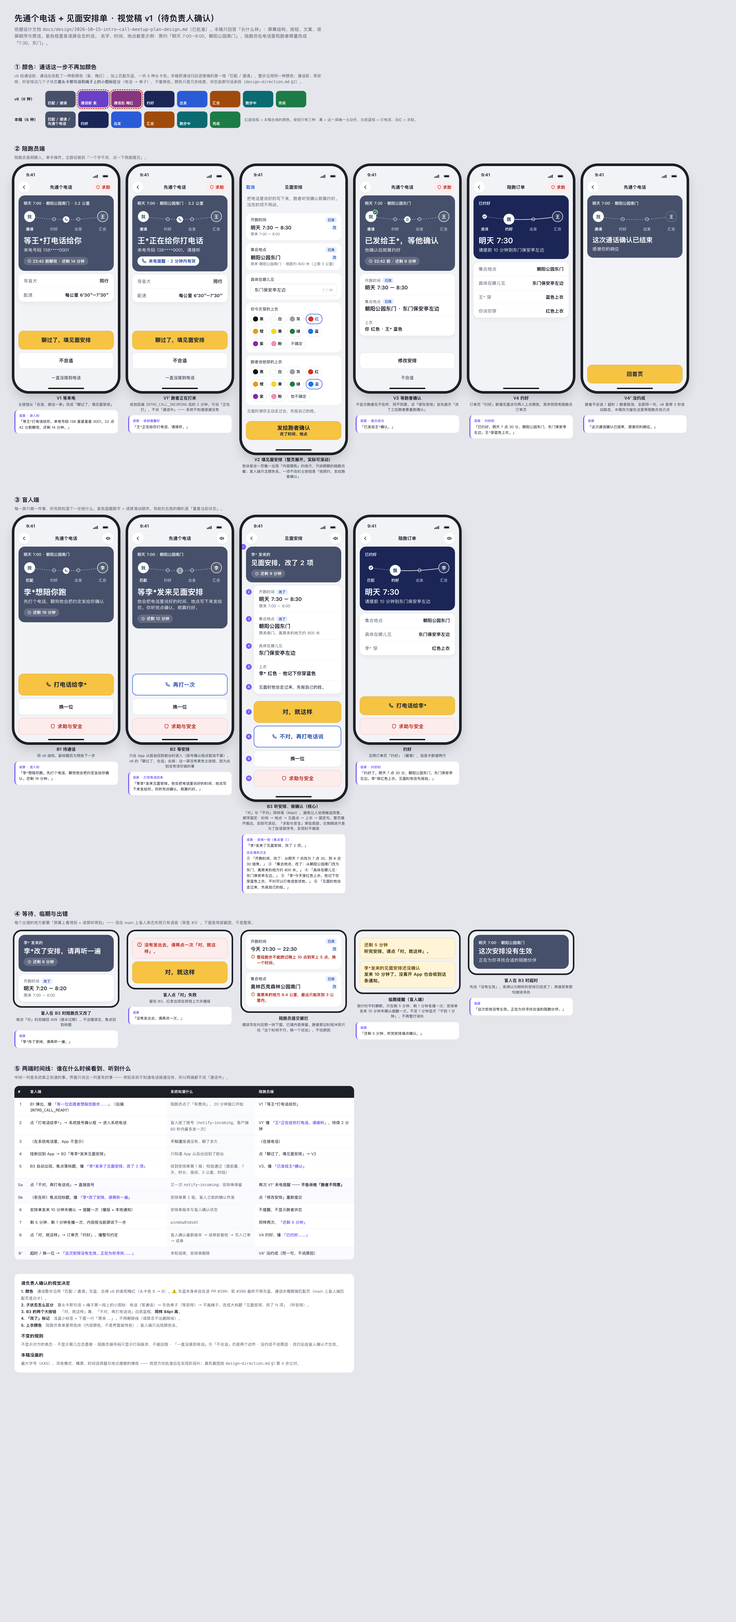
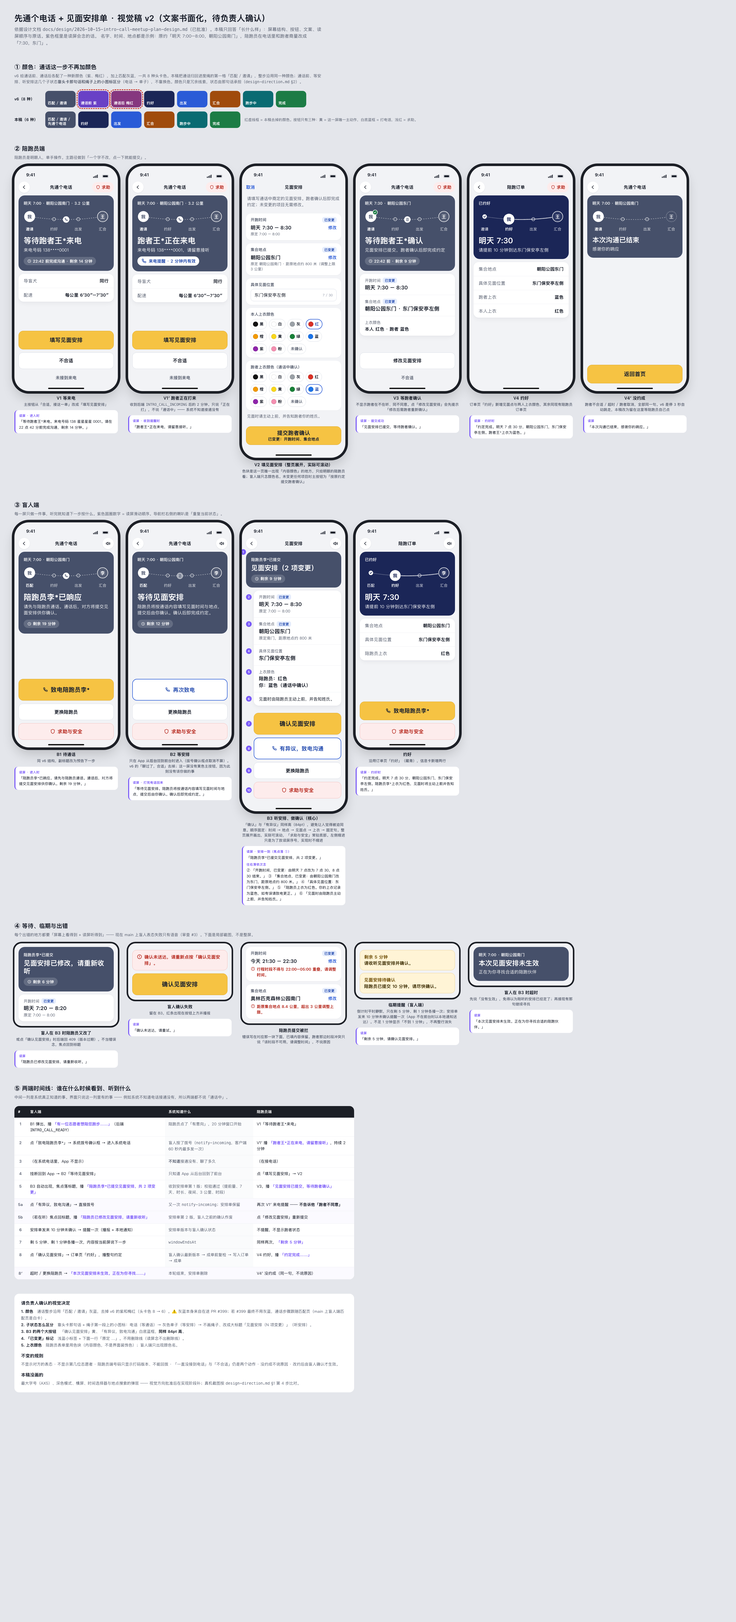
docs: 视觉稿 v2——界面文案改为书面表述，修三处标题折行

Changed region(s): [[0.0, 0.1556, 0.778, 0.8711], [0.4979, 0.1244, 0.5913, 0.1556], [0.0311, 0.2489, 0.0622, 0.28]]

diff --git a/docs/ui/mockups/intro-call-meetup-plan-20261015/index.html b/docs/ui/mockups/intro-call-meetup-plan-20261015/index.html
@@ -136,7 +136,7 @@ table.tl{border-collapse:separate;border-spacing:0;background:#fff;border-radius
 <template id="sb"><div class="sb"><span>9:41</span><svg viewBox="0 0 64 13"><rect x="0" y="8" width="3" height="5" rx="1" fill="#151A26"/><rect x="5" y="5.5" width="3" height="7.5" rx="1" fill="#151A26"/><rect x="10" y="3" width="3" height="10" rx="1" fill="#151A26"/><rect x="15" y="0.5" width="3" height="12.5" rx="1" fill="#151A26"/><rect x="36" y="1" width="23" height="11" rx="3.5" fill="none" stroke="#151A26" stroke-opacity=".4"/><rect x="38" y="3" width="19" height="7" rx="2" fill="#151A26"/></svg></div></template>
 
 <header>
- <h1>先通个电话 + 见面安排单 · 视觉稿 v1（待负责人确认）</h1>
+ <h1>先通个电话 + 见面安排单 · 视觉稿 v2（文案书面化，待负责人确认）</h1>
  <p class="lede">依据设计文档 <code>docs/design/2026-10-15-intro-call-meetup-plan-design.md</code>（已批准）。本稿只回答「长什么样」：屏幕结构、按钮、文案、读屏顺序与原话。紫色框里是读屏会念的话。
  名字、时间、地点都是示例：原约「明天 7:00–8:00，朝阳公园南门」，陪跑员在电话里和跑者商量改成「7:30，东门」。</p>
 </header>
@@ -160,67 +160,67 @@ table.tl{border-collapse:separate;border-spacing:0;background:#fff;border-radius
 <div class="nav"><div class="circ"><svg class="i"><use href="#back"/></svg></div><div class="t">先通个电话</div><div class="pill-help"><svg class="i"><use href="#shield"/></svg>求助</div></div>
 <div class="hero" style="background:var(--matching)"><div class="eyebrow">明天 7:00 · 朝阳公园南门 · 3.2 公里</div>
  <svg class="rope" data-rope='{"icon":"phone","other":"王","labels":["邀请","约好","出发","汇合"]}'></svg>
- <div class="say">等王*打电话给你</div><div class="say-sub">来电号码 138****0001</div>
- <div class="timer"><svg class="i"><use href="#clock"/></svg>22:42 前聊完 · 还剩 14 分钟</div></div>
+ <div class="say">等待跑者王*来电</div><div class="say-sub">来电号码 138****0001</div>
+ <div class="timer"><svg class="i"><use href="#clock"/></svg>22:42 前完成沟通 · 剩余 14 分钟</div></div>
 <div class="card"><div class="kv"><span>导盲犬</span><span>同行</span></div><div class="kv"><span>配速</span><span>每公里 6′30″–7′30″</span></div></div>
-<div class="bottom"><div class="cta">聊过了，填见面安排</div><div class="ghost">不合适</div><div class="textbtn">一直没接到电话</div></div><div class="hi"></div></div>
-<div class="cap">V1 等来电<small>主按钮从「合适，接这一单」改成「聊过了，填见面安排」</small></div>
-<div class="speak"><b>读屏 · 进入时</b><q>等王*打电话给你。来电号码 138 星星星星 0001。22 点 42 分前聊完，还剩 14 分钟。</q></div></div>
+<div class="bottom"><div class="cta">填写见面安排</div><div class="ghost">不合适</div><div class="textbtn">未接到来电</div></div><div class="hi"></div></div>
+<div class="cap">V1 等来电<small>主按钮从「合适，接这一单」改成「填写见面安排」</small></div>
+<div class="speak"><b>读屏 · 进入时</b><q>等待跑者王*来电。来电号码 138 星星星星 0001。请在 22 点 42 分前完成沟通，剩余 14 分钟。</q></div></div>
 
 <div class="col"><div class="phone" data-sb>
 <div class="nav"><div class="circ"><svg class="i"><use href="#back"/></svg></div><div class="t">先通个电话</div><div class="pill-help"><svg class="i"><use href="#shield"/></svg>求助</div></div>
 <div class="hero" style="background:var(--matching)"><div class="eyebrow">明天 7:00 · 朝阳公园南门 · 3.2 公里</div>
  <svg class="rope" data-rope='{"icon":"phone","other":"王","labels":["邀请","约好","出发","汇合"]}'></svg>
- <div class="say">王*正在给你打电话</div><div class="say-sub">来电号码 138****0001，请接听</div>
+ <div class="say">跑者王*正在来电</div><div class="say-sub">来电号码 138****0001，请留意接听</div>
  <div class="incoming"><svg class="i"><use href="#phone"/></svg>来电提醒 · 2 分钟内有效</div></div>
 <div class="card"><div class="kv"><span>导盲犬</span><span>同行</span></div><div class="kv"><span>配速</span><span>每公里 6′30″–7′30″</span></div></div>
-<div class="bottom"><div class="cta">聊过了，填见面安排</div><div class="ghost">不合适</div><div class="textbtn">一直没接到电话</div></div><div class="hi"></div></div>
+<div class="bottom"><div class="cta">填写见面安排</div><div class="ghost">不合适</div><div class="textbtn">未接到来电</div></div><div class="hi"></div></div>
 <div class="cap">V1′ 跑者正在打来<small>收到后端 <code>INTRO_CALL_INCOMING</code> 后的 2 分钟。只说「正在打」，不说「通话中」—— 系统不知道接通没有</small></div>
-<div class="speak"><b>读屏 · 收到提醒时</b><q>王*正在给你打电话，请接听。</q></div></div>
+<div class="speak"><b>读屏 · 收到提醒时</b><q>跑者王*正在来电，请留意接听。</q></div></div>
 
 <div class="col"><div class="phone tall" data-sb>
 <div class="nav"><div class="navtxt">取消</div><div class="t">见面安排</div><div style="width:44px"></div></div>
-<div class="sheetHead">把电话里说好的写下来，跑者听完确认就算约好。没改的项不用动。</div>
-<div class="sec"><h4>开跑时间<span class="tag">已改</span></h4><div class="now"><span>明天 7:30 – 8:30</span><span class="chg">改</span></div><div class="was">原来 7:00 – 8:00</div></div>
-<div class="sec"><h4>集合地点<span class="tag">已改</span></h4><div class="now"><span>朝阳公园东门</span><span class="chg">改</span></div><div class="was">原来 朝阳公园南门 · 相距约 800 米（上限 3 公里）</div></div>
-<div class="sec"><h4>具体在哪儿见</h4><div class="input"><span>东门保安亭左边</span><span class="cnt">7 / 30</span></div></div>
-<div class="sec"><h4>你今天穿的上衣</h4><div class="chips">
- <div class="chip"><i style="background:#111"></i>黑</div><div class="chip"><i style="background:#fff"></i>白</div><div class="chip"><i style="background:#9AA0A6"></i>灰</div><div class="chip on"><i style="background:#D93025"></i>红</div><div class="chip"><i style="background:#F29900"></i>橙</div><div class="chip"><i style="background:#F9D71C"></i>黄</div><div class="chip"><i style="background:#188038"></i>绿</div><div class="chip"><i style="background:#1A73E8"></i>蓝</div><div class="chip"><i style="background:#8E24AA"></i>紫</div><div class="chip"><i style="background:#F48FB1"></i>粉</div><div class="chip unk">不确定</div></div></div>
-<div class="sec"><h4>跑者说他穿的上衣</h4><div class="chips">
- <div class="chip"><i style="background:#111"></i>黑</div><div class="chip"><i style="background:#fff"></i>白</div><div class="chip"><i style="background:#9AA0A6"></i>灰</div><div class="chip"><i style="background:#D93025"></i>红</div><div class="chip"><i style="background:#F29900"></i>橙</div><div class="chip"><i style="background:#F9D71C"></i>黄</div><div class="chip"><i style="background:#188038"></i>绿</div><div class="chip on"><i style="background:#1A73E8"></i>蓝</div><div class="chip"><i style="background:#8E24AA"></i>紫</div><div class="chip"><i style="background:#F48FB1"></i>粉</div><div class="chip unk">他不确定</div></div></div>
-<div class="remind">见面时请你主动走过去，先报自己的姓。</div>
-<div class="bottom"><div class="cta stack">发给跑者确认<small>改了时间、地点</small></div></div><div class="hi"></div></div>
-<div class="cap">V2 填见面安排（整页展开，实际可滚动）<small>色块是这一页唯一出现「内容颜色」的地方，只给明眼的陪跑员看；盲人端只念颜色名。一项不改时主按钮是「按原约，发给跑者确认」</small></div></div>
+<div class="sheetHead">请填写通话中商定的见面安排。跑者确认后即完成约定；未变更的项目无需修改。</div>
+<div class="sec"><h4>开跑时间<span class="tag">已变更</span></h4><div class="now"><span>明天 7:30 – 8:30</span><span class="chg">修改</span></div><div class="was">原定 7:00 – 8:00</div></div>
+<div class="sec"><h4>集合地点<span class="tag">已变更</span></h4><div class="now"><span>朝阳公园东门</span><span class="chg">修改</span></div><div class="was">原定 朝阳公园南门 · 距原地点约 800 米（调整上限 3 公里）</div></div>
+<div class="sec"><h4>具体见面位置</h4><div class="input"><span>东门保安亭左侧</span><span class="cnt">7 / 30</span></div></div>
+<div class="sec"><h4>本人上衣颜色</h4><div class="chips">
+ <div class="chip"><i style="background:#111"></i>黑</div><div class="chip"><i style="background:#fff"></i>白</div><div class="chip"><i style="background:#9AA0A6"></i>灰</div><div class="chip on"><i style="background:#D93025"></i>红</div><div class="chip"><i style="background:#F29900"></i>橙</div><div class="chip"><i style="background:#F9D71C"></i>黄</div><div class="chip"><i style="background:#188038"></i>绿</div><div class="chip"><i style="background:#1A73E8"></i>蓝</div><div class="chip"><i style="background:#8E24AA"></i>紫</div><div class="chip"><i style="background:#F48FB1"></i>粉</div><div class="chip unk">未确认</div></div></div>
+<div class="sec"><h4>跑者上衣颜色（通话中确认）</h4><div class="chips">
+ <div class="chip"><i style="background:#111"></i>黑</div><div class="chip"><i style="background:#fff"></i>白</div><div class="chip"><i style="background:#9AA0A6"></i>灰</div><div class="chip"><i style="background:#D93025"></i>红</div><div class="chip"><i style="background:#F29900"></i>橙</div><div class="chip"><i style="background:#F9D71C"></i>黄</div><div class="chip"><i style="background:#188038"></i>绿</div><div class="chip on"><i style="background:#1A73E8"></i>蓝</div><div class="chip"><i style="background:#8E24AA"></i>紫</div><div class="chip"><i style="background:#F48FB1"></i>粉</div><div class="chip unk">未确认</div></div></div>
+<div class="remind">见面时请主动上前，并告知跑者你的姓氏。</div>
+<div class="bottom"><div class="cta stack">提交跑者确认<small>已变更：开跑时间、集合地点</small></div></div><div class="hi"></div></div>
+<div class="cap">V2 填见面安排（整页展开，实际可滚动）<small>色块是这一页唯一出现「内容颜色」的地方，只给明眼的陪跑员看；盲人端只念颜色名。未变更任何项目时主按钮为「按原约定提交跑者确认」</small></div></div>
 
 <div class="col"><div class="phone" data-sb>
 <div class="nav"><div class="circ"><svg class="i"><use href="#back"/></svg></div><div class="t">先通个电话</div><div class="pill-help"><svg class="i"><use href="#shield"/></svg>求助</div></div>
 <div class="hero" style="background:var(--matching)"><div class="eyebrow">明天 7:30 · 朝阳公园东门</div>
  <svg class="rope" data-rope='{"icon":"doc","other":"王","meCheck":true,"labels":["邀请","约好","出发","汇合"]}'></svg>
- <div class="say">已发给王*，等他确认</div><div class="say-sub">他确认后就算约好</div>
- <div class="timer"><svg class="i"><use href="#clock"/></svg>22:42 前 · 还剩 9 分钟</div></div>
-<div class="card plan"><div class="item"><div class="lbl">开跑时间 <span class="tag">已改</span></div><div class="val">明天 7:30 – 8:30</div></div><div class="item"><div class="lbl">集合地点 <span class="tag">已改</span></div><div class="val">朝阳公园东门 · 东门保安亭左边</div></div><div class="item"><div class="lbl">上衣</div><div class="val" style="font-size:17px">你 红色 · 王* 蓝色</div></div></div>
-<div class="bottom"><div class="ghost">修改安排</div><div class="textbtn">不合适</div></div><div class="hi"></div></div>
-<div class="cap">V3 等跑者确认<small>不显示跑者在不在听、同不同意。点「修改安排」会先提示「改了之后跑者要重新确认」</small></div>
-<div class="speak"><b>读屏 · 提交成功</b><q>已发给王*确认。</q></div></div>
+ <div class="say">等待跑者王*确认</div><div class="say-sub">见面安排已提交，跑者确认后即完成约定</div>
+ <div class="timer"><svg class="i"><use href="#clock"/></svg>22:42 前 · 剩余 9 分钟</div></div>
+<div class="card plan"><div class="item"><div class="lbl">开跑时间 <span class="tag">已变更</span></div><div class="val">明天 7:30 – 8:30</div></div><div class="item"><div class="lbl">集合地点 <span class="tag">已变更</span></div><div class="val">朝阳公园东门 · 东门保安亭左侧</div></div><div class="item"><div class="lbl">上衣颜色</div><div class="val" style="font-size:17px">本人 红色 · 跑者 蓝色</div></div></div>
+<div class="bottom"><div class="ghost">修改见面安排</div><div class="textbtn">不合适</div></div><div class="hi"></div></div>
+<div class="cap">V3 等跑者确认<small>不显示跑者在不在听、同不同意。点「修改见面安排」会先提示「修改后需跑者重新确认」</small></div>
+<div class="speak"><b>读屏 · 提交成功</b><q>见面安排已提交，等待跑者确认。</q></div></div>
 
 <div class="col"><div class="phone" data-sb>
 <div class="nav"><div class="circ"><svg class="i"><use href="#back"/></svg></div><div class="t">陪跑订单</div><div class="pill-help"><svg class="i"><use href="#shield"/></svg>求助</div></div>
 <div class="hero" style="background:var(--navy)"><div class="eyebrow">已约好</div>
  <svg class="rope" data-rope='{"cur":1,"other":"王","agreed":true,"labels":["邀请","约好","出发","汇合"]}'></svg>
- <div class="say">明天 7:30</div><div class="say-sub">请提前 10 分钟到东门保安亭左边</div></div>
-<div class="card"><div class="kv"><span>集合地点</span><span>朝阳公园东门</span></div><div class="kv"><span>具体在哪儿见</span><span>东门保安亭左边</span></div><div class="kv"><span>王* 穿</span><span>蓝色上衣</span></div><div class="kv"><span>你说你穿</span><span>红色上衣</span></div></div>
+ <div class="say">明天 7:30</div><div class="say-sub">请提前 10 分钟到达东门保安亭左侧</div></div>
+<div class="card"><div class="kv"><span>集合地点</span><span>朝阳公园东门</span></div><div class="kv"><span>具体见面位置</span><span>东门保安亭左侧</span></div><div class="kv"><span>跑者上衣</span><span>蓝色</span></div><div class="kv"><span>本人上衣</span><span>红色</span></div></div>
 <div class="bottom"></div><div class="hi"></div></div>
 <div class="cap">V4 约好<small>订单页「约好」新增见面点与两人上衣颜色，其余同现有陪跑员订单页</small></div>
-<div class="speak"><b>读屏 · 约好时</b><q>已约好。明天 7 点 30 分，朝阳公园东门，东门保安亭左边。王*穿蓝色上衣。</q></div></div>
+<div class="speak"><b>读屏 · 约好时</b><q>约定完成。明天 7 点 30 分，朝阳公园东门，东门保安亭左侧。跑者王*上衣为蓝色。</q></div></div>
 
 <div class="col"><div class="phone" data-sb>
 <div class="nav"><div class="circ"><svg class="i"><use href="#back"/></svg></div><div class="t">先通个电话</div><div style="width:44px"></div></div>
 <div class="hero" style="background:var(--matching)"><div class="eyebrow">明天 7:00 · 朝阳公园南门</div>
  <svg class="rope" data-rope='{"other":"王","otherState":"none","labels":["邀请","约好","出发","汇合"]}'></svg>
- <div class="say m">这次通话确认已结束</div><div class="say-sub">感谢你的响应</div></div>
-<div class="bottom"><div class="cta">回首页</div></div><div class="hi"></div></div>
+ <div class="say m">本次沟通已结束</div><div class="say-sub">感谢你的响应</div></div>
+<div class="bottom"><div class="cta">返回首页</div></div><div class="hi"></div></div>
 <div class="cap">V4′ 没约成<small>跑者不合适 / 超时 / 跑者取消，全部同一句。v6 是停 3 秒自动跳走，本稿改为留在这里等陪跑员自己点</small></div>
-<div class="speak"><b>读屏</b><q>这次通话确认已结束，感谢你的响应。</q></div></div>
+<div class="speak"><b>读屏</b><q>本次沟通已结束，感谢你的响应。</q></div></div>
 </div>
 
 <!-- ================= 盲人端 ================= -->
@@ -232,48 +232,48 @@ table.tl{border-collapse:separate;border-spacing:0;background:#fff;border-radius
 <div class="nav"><div class="circ"><svg class="i"><use href="#back"/></svg></div><div class="t">先通个电话</div><div class="circ"><svg class="i"><use href="#speaker"/></svg></div></div>
 <div class="hero" style="background:var(--matching)"><div class="eyebrow">明天 7:00 · 朝阳公园南门</div>
  <svg class="rope" data-rope='{"icon":"phone","other":"李"}'></svg>
- <div class="say">李*想陪你跑</div><div class="say-sub">先打个电话，聊完他会把约定发给你确认</div>
- <div class="timer"><svg class="i"><use href="#clock"/></svg>还剩 19 分钟</div></div>
-<div class="bottom"><div class="cta big"><svg class="i"><use href="#phone"/></svg>打电话给李*</div><div class="ghost">换一位</div><div class="help"><svg class="i"><use href="#shield"/></svg>求助与安全</div></div><div class="hi"></div></div>
+ <div class="say">陪跑员李*已响应</div><div class="say-sub">请先与陪跑员通话。通话后，对方将提交见面安排供你确认。</div>
+ <div class="timer"><svg class="i"><use href="#clock"/></svg>剩余 19 分钟</div></div>
+<div class="bottom"><div class="cta big"><svg class="i"><use href="#phone"/></svg>致电陪跑员李*</div><div class="ghost">更换陪跑员</div><div class="help"><svg class="i"><use href="#shield"/></svg>求助与安全</div></div><div class="hi"></div></div>
 <div class="cap">B1 待通话<small>同 v6 结构，副标题改为预告下一步</small></div>
-<div class="speak"><b>读屏 · 进入时</b><q>李*想陪你跑。先打个电话，聊完他会把约定发给你确认。还剩 19 分钟。</q></div></div>
+<div class="speak"><b>读屏 · 进入时</b><q>陪跑员李*已响应。请先与陪跑员通话。通话后，对方将提交见面安排供你确认。剩余 19 分钟。</q></div></div>
 
 <div class="col"><div class="phone" data-sb>
 <div class="nav"><div class="circ"><svg class="i"><use href="#back"/></svg></div><div class="t">先通个电话</div><div class="circ"><svg class="i"><use href="#speaker"/></svg></div></div>
 <div class="hero" style="background:var(--matching)"><div class="eyebrow">明天 7:00 · 朝阳公园南门</div>
  <svg class="rope" data-rope='{"icon":"doc","iconDim":true,"other":"李"}'></svg>
- <div class="say">等李*发来见面安排</div><div class="say-sub">他会把电话里说好的时间、地点写下来发给你。你听完点确认，就算约好。</div>
- <div class="timer"><svg class="i"><use href="#clock"/></svg>还剩 12 分钟</div></div>
-<div class="bottom"><div class="call"><svg class="i"><use href="#phone"/></svg>再打一次</div><div class="ghost">换一位</div><div class="help"><svg class="i"><use href="#shield"/></svg>求助与安全</div></div><div class="hi"></div></div>
+ <div class="say">等待见面安排</div><div class="say-sub">陪跑员将按通话内容填写见面时间与地点，提交后由你确认。确认后即完成约定。</div>
+ <div class="timer"><svg class="i"><use href="#clock"/></svg>剩余 12 分钟</div></div>
+<div class="bottom"><div class="call"><svg class="i"><use href="#phone"/></svg>再次致电</div><div class="ghost">更换陪跑员</div><div class="help"><svg class="i"><use href="#shield"/></svg>求助与安全</div></div><div class="hi"></div></div>
 <div class="cap">B2 等安排<small>只在 App 从<b>后台</b>回到前台时进入（拨号确认框点取消不算）。v6 的「聊过了，合适」去掉；这一屏没有黄色主按钮，因为此刻没有该你做的事</small></div>
-<div class="speak"><b>读屏 · 打完电话回来</b><q>等李*发来见面安排。他会把电话里说好的时间、地点写下来发给你。你听完点确认，就算约好。</q></div></div>
+<div class="speak"><b>读屏 · 打完电话回来</b><q>等待见面安排。陪跑员将按通话内容填写见面时间与地点，提交后由你确认。确认后即完成约定。</q></div></div>
 
 <div class="col"><div class="phone tall" data-sb>
 <div class="nav"><div class="circ"><svg class="i"><use href="#back"/></svg></div><div class="t">见面安排</div><div class="circ"><svg class="i"><use href="#speaker"/></svg></div></div>
-<div class="foWrap"><div class="hero" style="background:var(--matching);padding-bottom:18px"><span class="fo">1</span><div class="eyebrow">李* 发来的</div>
- <div class="say m" style="margin-top:6px">见面安排，改了 2 项</div>
- <div class="timer" style="margin-top:10px"><svg class="i"><use href="#clock"/></svg>还剩 9 分钟</div></div></div>
+<div class="foWrap"><div class="hero" style="background:var(--matching);padding-bottom:18px"><span class="fo">1</span><div class="eyebrow">陪跑员李*已提交</div>
+ <div class="say m" style="margin-top:6px">见面安排（2 项变更）</div>
+ <div class="timer" style="margin-top:10px"><svg class="i"><use href="#clock"/></svg>剩余 9 分钟</div></div></div>
 <div class="card plan" style="margin-left:46px">
- <div class="item"><span class="fo">2</span><div class="lbl">开跑时间 <span class="tag">改了</span></div><div class="val">明天 7:30 – 8:30</div><div class="old">原来 7:00 – 8:00</div></div>
- <div class="item"><span class="fo">3</span><div class="lbl">集合地点 <span class="tag">改了</span></div><div class="val">朝阳公园东门</div><div class="old">原来南门，离原来的地方约 800 米</div></div>
- <div class="item"><span class="fo">4</span><div class="lbl">具体在哪儿见</div><div class="val">东门保安亭左边</div></div>
- <div class="item"><span class="fo">5</span><div class="lbl">上衣</div><div class="val" style="font-size:18px">李* 红色 · 他记下你穿蓝色</div></div>
- <div class="item"><span class="fo">6</span><div class="fixed">见面时他会走过来，先报自己的姓。</div></div>
+ <div class="item"><span class="fo">2</span><div class="lbl">开跑时间 <span class="tag">已变更</span></div><div class="val">明天 7:30 – 8:30</div><div class="old">原定 7:00 – 8:00</div></div>
+ <div class="item"><span class="fo">3</span><div class="lbl">集合地点 <span class="tag">已变更</span></div><div class="val">朝阳公园东门</div><div class="old">原定南门，距原地点约 800 米</div></div>
+ <div class="item"><span class="fo">4</span><div class="lbl">具体见面位置</div><div class="val">东门保安亭左侧</div></div>
+ <div class="item"><span class="fo">5</span><div class="lbl">上衣颜色</div><div class="val" style="font-size:18px">陪跑员：红色</div><div class="val" style="font-size:18px;margin-top:2px">你：蓝色（通话中确认）</div></div>
+ <div class="item"><span class="fo">6</span><div class="fixed">见面时由陪跑员主动上前，并告知姓氏。</div></div>
 </div>
-<div class="bottom" style="padding-left:46px"><div class="foWrap"><span class="fo btn">7</span><div class="cta big">对，就这样</div></div><div class="foWrap"><span class="fo btn">8</span><div class="call"><svg class="i"><use href="#phone"/></svg>不对，再打电话说</div></div><div class="foWrap"><span class="fo btn">9</span><div class="ghost">换一位</div></div><div class="foWrap"><span class="fo btn">10</span><div class="help"><svg class="i"><use href="#shield"/></svg>求助与安全</div></div></div><div class="hi"></div></div>
-<div class="cap">B3 听安排、做确认（核心）<small>「对」与「不对」同样高（84pt），避免让人觉得被迫同意。顺序固定：时间 → 地点 → 见面点 → 上衣 → 固定句。整页展开画出，实际可滚动，「求助与安全」常驻底部。左侧缩进只是为了放读屏序号，实现时不缩进</small></div>
-<div class="speak"><b>读屏 · 安排一到（焦点落 ①）</b><q>李*发来了见面安排，改了 2 项。</q><br>
-<b style="margin-top:6px">往右滑依次念</b>② <q>开跑时间，改了：从明天 7 点改为 7 点 30，到 8 点 30 结束。</q> ③ <q>集合地点，改了：从朝阳公园南门改为东门，离原来的地方约 800 米。</q> ④ <q>具体在哪儿见：东门保安亭左边。</q> ⑤ <q>李*今天穿红色上衣。他记下你穿蓝色上衣，不对可以打电话告诉他。</q> ⑥ <q>见面时他会走过来，先报自己的姓。</q></div></div>
+<div class="bottom" style="padding-left:46px"><div class="foWrap"><span class="fo btn">7</span><div class="cta big">确认见面安排</div></div><div class="foWrap"><span class="fo btn">8</span><div class="call"><svg class="i"><use href="#phone"/></svg>有异议，致电沟通</div></div><div class="foWrap"><span class="fo btn">9</span><div class="ghost">更换陪跑员</div></div><div class="foWrap"><span class="fo btn">10</span><div class="help"><svg class="i"><use href="#shield"/></svg>求助与安全</div></div></div><div class="hi"></div></div>
+<div class="cap">B3 听安排、做确认（核心）<small>「确认」与「有异议」同样高（84pt），避免让人觉得被迫同意。顺序固定：时间 → 地点 → 见面点 → 上衣 → 固定句。整页展开画出，实际可滚动，「求助与安全」常驻底部。左侧缩进只是为了放读屏序号，实现时不缩进</small></div>
+<div class="speak"><b>读屏 · 安排一到（焦点落 ①）</b><q>陪跑员李*已提交见面安排，共 2 项变更。</q><br>
+<b style="margin-top:6px">往右滑依次念</b>② <q>开跑时间，已变更：由明天 7 点改为 7 点 30，8 点 30 结束。</q> ③ <q>集合地点，已变更：由朝阳公园南门改为东门，距原地点约 800 米。</q> ④ <q>具体见面位置：东门保安亭左侧。</q> ⑤ <q>陪跑员上衣为红色。你的上衣记录为蓝色，如有误请致电更正。</q> ⑥ <q>见面时由陪跑员主动上前，并告知姓氏。</q></div></div>
 
 <div class="col"><div class="phone" data-sb>
 <div class="nav"><div class="circ"><svg class="i"><use href="#back"/></svg></div><div class="t">陪跑订单</div><div class="circ"><svg class="i"><use href="#speaker"/></svg></div></div>
 <div class="hero" style="background:var(--navy)"><div class="eyebrow">已约好</div>
  <svg class="rope" data-rope='{"cur":1,"other":"李","agreed":true}'></svg>
- <div class="say">明天 7:30</div><div class="say-sub">请提前 10 分钟到东门保安亭左边</div></div>
-<div class="card"><div class="kv"><span>集合地点</span><span>朝阳公园东门</span></div><div class="kv"><span>具体在哪儿见</span><span>东门保安亭左边</span></div><div class="kv"><span>李* 穿</span><span>红色上衣</span></div></div>
-<div class="bottom"><div class="cta"><svg class="i"><use href="#phone"/></svg>打电话给李*</div><div class="help"><svg class="i"><use href="#shield"/></svg>求助与安全</div></div><div class="hi"></div></div>
+ <div class="say">明天 7:30</div><div class="say-sub">请提前 10 分钟到达东门保安亭左侧</div></div>
+<div class="card"><div class="kv"><span>集合地点</span><span>朝阳公园东门</span></div><div class="kv"><span>具体见面位置</span><span>东门保安亭左侧</span></div><div class="kv"><span>陪跑员上衣</span><span>红色</span></div></div>
+<div class="bottom"><div class="cta"><svg class="i"><use href="#phone"/></svg>致电陪跑员李*</div><div class="help"><svg class="i"><use href="#shield"/></svg>求助与安全</div></div><div class="hi"></div></div>
 <div class="cap">约好<small>沿用订单页「约好」（藏青），信息卡新增两行</small></div>
-<div class="speak"><b>读屏 · 约好时</b><q>约好了。明天 7 点 30 分，朝阳公园东门，东门保安亭左边。李*穿红色上衣，见面时他会先报姓。</q></div></div>
+<div class="speak"><b>读屏 · 约好时</b><q>约定完成。明天 7 点 30 分，朝阳公园东门，东门保安亭左侧。陪跑员李*上衣为红色，见面时将主动上前并告知姓氏。</q></div></div>
 </div>
 
 <!-- ================= 异常与临期 ================= -->
@@ -282,34 +282,34 @@ table.tl{border-collapse:separate;border-spacing:0;background:#fff;border-radius
 <div class="row">
 
 <div class="col"><div class="snip">
-<div class="hero" style="background:var(--matching);margin-top:0"><div class="eyebrow">李* 发来的</div><div class="say m" style="margin-top:6px">李*改了安排，请再听一遍</div><div class="timer" style="margin-top:10px"><svg class="i"><use href="#clock"/></svg>还剩 6 分钟</div></div>
-<div class="card plan"><div class="item"><div class="lbl">开跑时间 <span class="tag">改了</span></div><div class="val">明天 7:20 – 8:20</div><div class="old">原来 7:00 – 8:00</div></div></div></div>
-<div class="cap">盲人在 B3 时陪跑员又改了<small>或点「对」时后端回 409（版本过期）。不当错误念，焦点回到标题</small></div>
-<div class="speak"><b>读屏</b><q>李*改了安排，请再听一遍。</q></div></div>
+<div class="hero" style="background:var(--matching);margin-top:0"><div class="eyebrow">陪跑员李*已提交</div><div class="say m" style="margin-top:6px">见面安排已修改，请重新收听</div><div class="timer" style="margin-top:10px"><svg class="i"><use href="#clock"/></svg>剩余 6 分钟</div></div>
+<div class="card plan"><div class="item"><div class="lbl">开跑时间 <span class="tag">已变更</span></div><div class="val">明天 7:20 – 8:20</div><div class="old">原定 7:00 – 8:00</div></div></div></div>
+<div class="cap">盲人在 B3 时陪跑员又改了<small>或点「确认见面安排」时后端回 409（版本过期）。不当错误念，焦点回到标题</small></div>
+<div class="speak"><b>读屏</b><q>陪跑员已修改见面安排，请重新收听。</q></div></div>
 
 <div class="col"><div class="snip">
-<div class="banner"><div style="display:flex;gap:8px"><svg class="i"><use href="#alert"/></svg><span>没有发出去，请再点一次「对，就这样」。</span></div></div>
-<div class="bottom" style="padding-bottom:0"><div class="cta big">对，就这样</div></div></div>
-<div class="cap">盲人点「对」失败<small>留在 B3，红条出现在按钮上方并播报</small></div>
-<div class="speak"><b>读屏</b><q>没有发出去，请再点一次。</q></div></div>
+<div class="banner"><div style="display:flex;gap:8px"><svg class="i"><use href="#alert"/></svg><span>确认未送达，请重新点按「确认见面安排」。</span></div></div>
+<div class="bottom" style="padding-bottom:0"><div class="cta big">确认见面安排</div></div></div>
+<div class="cap">盲人确认失败<small>留在 B3，红条出现在按钮上方并播报</small></div>
+<div class="speak"><b>读屏</b><q>确认未送达，请重试。</q></div></div>
 
 <div class="col"><div class="snip">
-<div class="sec" style="margin-top:0"><h4>开跑时间<span class="tag">已改</span></h4><div class="now"><span>今天 21:30 – 22:30</span><span class="chg">改</span></div>
-<div class="err"><svg class="i" style="width:18px;height:18px"><use href="#alert"/></svg><span>整段跑步不能跨过晚上 10 点到早上 5 点，换一个时间。</span></div></div>
-<div class="sec"><h4>集合地点<span class="tag">已改</span></h4><div class="now"><span>奥林匹克森林公园南门</span><span class="chg">改</span></div>
-<div class="err"><svg class="i" style="width:18px;height:18px"><use href="#alert"/></svg><span>离原来的地方 8.4 公里，最远只能改到 3 公里内。</span></div></div></div>
-<div class="cap">陪跑员提交被拦<small>错误写在对应那一块下面，已填内容保留。跑者那边时段冲突只说「这个时间不行，换一个试试」，不说原因</small></div></div>
+<div class="sec" style="margin-top:0"><h4>开跑时间<span class="tag">已变更</span></h4><div class="now"><span>今天 21:30 – 22:30</span><span class="chg">修改</span></div>
+<div class="err"><svg class="i" style="width:18px;height:18px"><use href="#alert"/></svg><span>行程时段不得与 22:00–05:00 重叠，请调整时间。</span></div></div>
+<div class="sec"><h4>集合地点<span class="tag">已变更</span></h4><div class="now"><span>奥林匹克森林公园南门</span><span class="chg">修改</span></div>
+<div class="err"><svg class="i" style="width:18px;height:18px"><use href="#alert"/></svg><span>距原集合地点 8.4 公里，超出 3 公里调整上限。</span></div></div></div>
+<div class="cap">陪跑员提交被拦<small>错误写在对应那一块下面，已填内容保留。跑者那边时段冲突只说「该时段不可用，请调整时间」，不说原因</small></div></div>
 
 <div class="col"><div class="snip">
-<div class="banner warm"><b>还剩 5 分钟</b><br>听完安排，请点「对，就这样」。</div>
-<div class="banner warm" style="margin-top:10px"><b>李*发来的见面安排还没确认</b><br>发来 10 分钟了。没离开 App 也会收到这条通知。</div></div>
-<div class="cap">临期提醒（盲人端）<small>倒计时平时静默，只在剩 5 分钟、剩 1 分钟各播一次；安排单发来 10 分钟未确认提醒一次。不足 1 分钟显示「不到 1 分钟」，不再整行消失</small></div>
-<div class="speak"><b>读屏</b><q>还剩 5 分钟，听完安排请点确认。</q></div></div>
+<div class="banner warm"><b>剩余 5 分钟</b><br>请收听见面安排并确认。</div>
+<div class="banner warm" style="margin-top:10px"><b>见面安排待确认</b><br>陪跑员已提交 10 分钟，请尽快确认。</div></div>
+<div class="cap">临期提醒（盲人端）<small>倒计时平时静默，只在剩 5 分钟、剩 1 分钟各播一次；安排单发来 10 分钟未确认提醒一次（App 不在前台时以本地通知送达）。不足 1 分钟显示「不到 1 分钟」，不再整行消失</small></div>
+<div class="speak"><b>读屏</b><q>剩余 5 分钟，请确认见面安排。</q></div></div>
 
 <div class="col"><div class="snip">
-<div class="hero" style="background:var(--matching);margin-top:0"><div class="eyebrow">明天 7:00 · 朝阳公园南门</div><div class="say m" style="margin-top:6px">这次安排没有生效</div><div class="say-sub">正在为你寻找合适的陪跑伙伴</div></div></div>
+<div class="hero" style="background:var(--matching);margin-top:0"><div class="eyebrow">明天 7:00 · 朝阳公园南门</div><div class="say m" style="margin-top:6px">本次见面安排未生效</div><div class="say-sub">正在为你寻找合适的陪跑伙伴</div></div></div>
 <div class="cap">盲人在 B3 时超时<small>先说「没有生效」，免得以为刚听的安排已经定了；再接现有那句继续寻找</small></div>
-<div class="speak"><b>读屏</b><q>这次安排没有生效。正在为你寻找合适的陪跑伙伴。</q></div></div>
+<div class="speak"><b>读屏</b><q>本次见面安排未生效。正在为你寻找合适的陪跑伙伴。</q></div></div>
 </div>
 
 <!-- ================= 时间线 ================= -->
@@ -317,25 +317,25 @@ table.tl{border-collapse:separate;border-spacing:0;background:#fff;border-radius
 <p class="h2sub">中间一列是系统真正知道的事。界面只说这一列里有的事 —— 例如系统不知道电话接通没有，所以两端都不说「通话中」。</p>
 <table class="tl">
 <tr><th>#</th><th>盲人端</th><th>系统知道什么</th><th>陪跑员端</th></tr>
-<tr><td>1</td><td>B1 弹出，播 <span class="sayq">「有一位志愿者想陪您跑步……」</span>（后端 <code>INTRO_CALL_READY</code>）</td><td class="sys">陪跑员点了「有意向」，20 分钟窗口开始</td><td>V1「等王*打电话给你」</td></tr>
-<tr><td>2</td><td>点「打电话给李*」→ 系统拨号确认框 → 进入系统电话</td><td class="sys">盲人按了拨号（<code>notify-incoming</code>，客户端 60 秒内最多发一次）</td><td>V1′ 播 <span class="sayq">「王*正在给你打电话，请接听」</span>，持续 2 分钟</td></tr>
+<tr><td>1</td><td>B1 弹出，播 <span class="sayq">「有一位志愿者想陪您跑步……」</span>（后端 <code>INTRO_CALL_READY</code>）</td><td class="sys">陪跑员点了「有意向」，20 分钟窗口开始</td><td>V1「等待跑者王*来电」</td></tr>
+<tr><td>2</td><td>点「致电陪跑员李*」→ 系统拨号确认框 → 进入系统电话</td><td class="sys">盲人按了拨号（<code>notify-incoming</code>，客户端 60 秒内最多发一次）</td><td>V1′ 播 <span class="sayq">「跑者王*正在来电，请留意接听」</span>，持续 2 分钟</td></tr>
 <tr><td>3</td><td>（在系统电话里，App 不显示）</td><td class="sys"><b>不知道</b>接通没有、聊了多久</td><td>（在接电话）</td></tr>
-<tr><td>4</td><td>挂断回到 App → B2「等李*发来见面安排」</td><td class="sys">只知道 App 从后台回到了前台</td><td>点「聊过了，填见面安排」→ V2</td></tr>
-<tr><td>5</td><td>B3 自动出现，焦点落标题，播 <span class="sayq">「李*发来了见面安排，改了 2 项」</span></td><td class="sys">收到安排单第 1 版；校验通过（提前量、7 天、时长、夜间、3 公里、时段）</td><td>V3，播 <span class="sayq">「已发给王*确认」</span></td></tr>
-<tr class="branch"><td>5a</td><td>点「不对，再打电话说」→ 直接拨号</td><td class="sys">又一次 <code>notify-incoming</code>；安排单保留</td><td>再次 V1′ 来电提醒 —— <b>不告诉他「跑者不同意」</b></td></tr>
-<tr class="branch"><td>5b</td><td>（若在听）焦点回标题，播 <span class="sayq">「李*改了安排，请再听一遍」</span></td><td class="sys">安排单第 2 版，盲人之前的确认作废</td><td>点「修改安排」重新提交</td></tr>
+<tr><td>4</td><td>挂断回到 App → B2「等待见面安排」</td><td class="sys">只知道 App 从后台回到了前台</td><td>点「填写见面安排」→ V2</td></tr>
+<tr><td>5</td><td>B3 自动出现，焦点落标题，播 <span class="sayq">「陪跑员李*已提交见面安排，共 2 项变更」</span></td><td class="sys">收到安排单第 1 版；校验通过（提前量、7 天、时长、夜间、3 公里、时段）</td><td>V3，播 <span class="sayq">「见面安排已提交，等待跑者确认」</span></td></tr>
+<tr class="branch"><td>5a</td><td>点「有异议，致电沟通」→ 直接拨号</td><td class="sys">又一次 <code>notify-incoming</code>；安排单保留</td><td>再次 V1′ 来电提醒 —— <b>不告诉他「跑者不同意」</b></td></tr>
+<tr class="branch"><td>5b</td><td>（若在听）焦点回标题，播 <span class="sayq">「陪跑员已修改见面安排，请重新收听」</span></td><td class="sys">安排单第 2 版，盲人之前的确认作废</td><td>点「修改见面安排」重新提交</td></tr>
 <tr><td>6</td><td>安排单发来 10 分钟未确认 → 提醒一次（播报 + 本地通知）</td><td class="sys">安排单版本与盲人确认状态</td><td>不提醒，不显示跑者状态</td></tr>
-<tr><td>7</td><td>剩 5 分钟、剩 1 分钟各播一次，内容按当前屏说下一步</td><td class="sys"><code>windowEndsAt</code></td><td>同样两次，<span class="sayq">「还剩 5 分钟」</span></td></tr>
-<tr><td>8</td><td>点「对，就这样」→ 订单页「约好」，播整句约定</td><td class="sys">盲人确认最新版本 → 成单前复检 → 写入订单 → 成单</td><td>V4 约好，播 <span class="sayq">「已约好……」</span></td></tr>
-<tr class="branch"><td>8′</td><td>超时 / 换一位 → <span class="sayq">「这次安排没有生效。正在为你寻找……」</span></td><td class="sys">本轮结束，安排单删除</td><td>V4′ 没约成（同一句，不说原因）</td></tr>
+<tr><td>7</td><td>剩 5 分钟、剩 1 分钟各播一次，内容按当前屏说下一步</td><td class="sys"><code>windowEndsAt</code></td><td>同样两次，<span class="sayq">「剩余 5 分钟」</span></td></tr>
+<tr><td>8</td><td>点「确认见面安排」→ 订单页「约好」，播整句约定</td><td class="sys">盲人确认最新版本 → 成单前复检 → 写入订单 → 成单</td><td>V4 约好，播 <span class="sayq">「约定完成……」</span></td></tr>
+<tr class="branch"><td>8′</td><td>超时 / 更换陪跑员 → <span class="sayq">「本次见面安排未生效。正在为你寻找……」</span></td><td class="sys">本轮结束，安排单删除</td><td>V4′ 没约成（同一句，不说原因）</td></tr>
 </table>
 
 <div class="notes">
 <h3>请负责人确认的视觉决定</h3>
 <b>1. 颜色</b>　通话整步沿用「匹配 / 邀请」灰蓝，去掉 v6 的紫和梅红（头卡色 8 → 6）。⚠ 灰蓝本身来自在途 PR #399；若 #399 最终不用灰蓝，通话步骤跟随匹配页（main 上盲人端匹配页是白卡）。<br>
-<b>2. 子状态怎么区分</b>　靠头卡那句话 + 绳子第一段上的小图标：电话（等通话）→ 灰色单子（等安排）→ 不画绳子、改成大标题「见面安排，改了 N 项」（听安排）。<br>
-<b>3. B3 的两个大按钮</b>　「对，就这样」黄、「不对，再打电话说」白底蓝框，<b>同样 84pt 高</b>。<br>
-<b>4. 「改了」标记</b>　浅蓝小标签 + 下面一行「原来 …」。不用删除线（读屏念不出删除线）。<br>
+<b>2. 子状态怎么区分</b>　靠头卡那句话 + 绳子第一段上的小图标：电话（等通话）→ 灰色单子（等安排）→ 不画绳子、改成大标题「见面安排（N 项变更）」（听安排）。<br>
+<b>3. B3 的两个大按钮</b>　「确认见面安排」黄、「有异议，致电沟通」白底蓝框，<b>同样 84pt 高</b>。<br>
+<b>4. 「已变更」标记</b>　浅蓝小标签 + 下面一行「原定 …」。不用删除线（读屏念不出删除线）。<br>
 <b>5. 上衣颜色</b>　陪跑员表单里用色块（内容颜色，不是界面装饰色）；盲人端只出现颜色名。
 
 <h3>不变的规则</h3>
